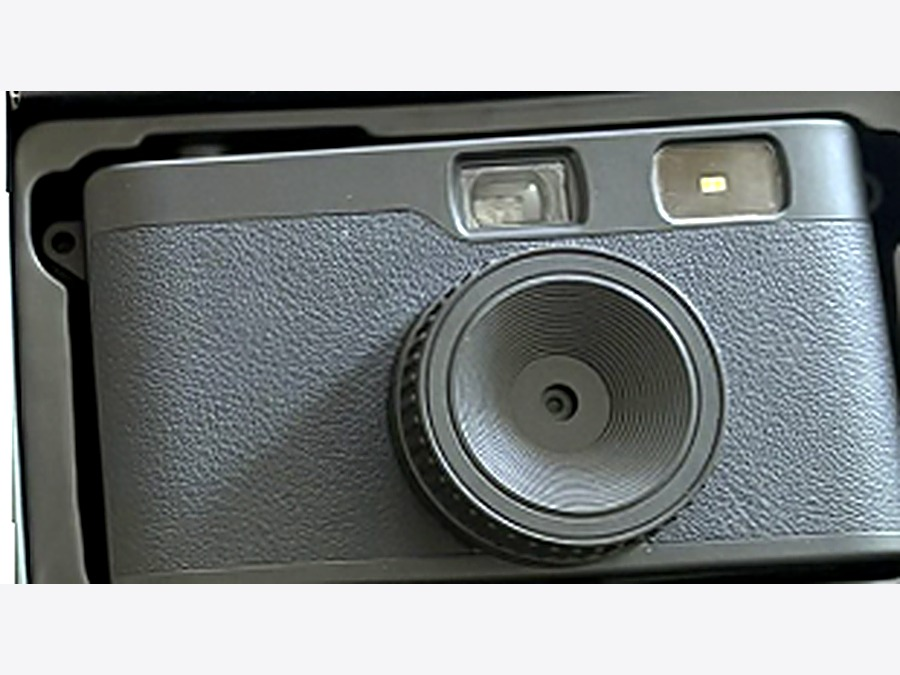
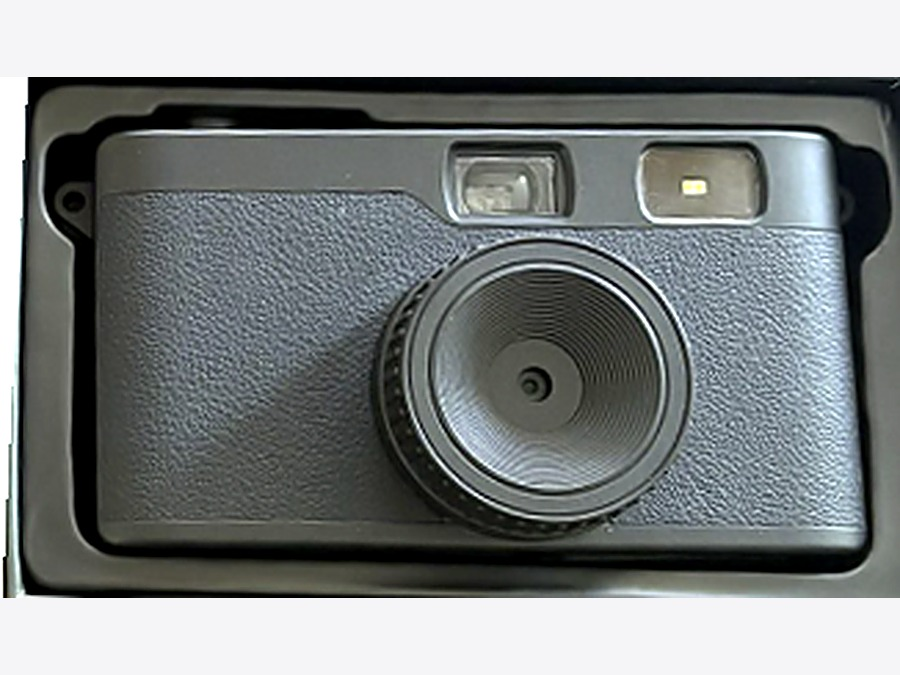
Zwart precies waterpas gezet, hero-foto vervangen door consistente productfoto, warmere restyle (Fraunces + Nunito Sans, crème palet, getinte accenten)

diff --git a/index.html b/index.html
@@ -16,29 +16,30 @@
   <meta property="og:site_name" content="Kiekcam"/>
   <link rel="preconnect" href="https://fonts.googleapis.com"/>
   <link rel="preconnect" href="https://fonts.gstatic.com" crossorigin/>
-  <link href="https://fonts.googleapis.com/css2?family=Inter:wght@400;500;600;700;800&display=swap" rel="stylesheet"/>
+  <link href="https://fonts.googleapis.com/css2?family=Fraunces:opsz,wght@9..144,500;9..144,600;9..144,700;9..144,800&family=Nunito+Sans:wght@400;500;600;700;800&display=swap" rel="stylesheet"/>
   <style>
     :root{
-      --bg:#ffffff;--bg-tint:#f5f5f7;--dark:#1d1d1f;--dark-2:#272729;
-      --ink:#1d1d1f;--ink-muted:#6e6e73;--ink-faint:#98989d;
-      --hairline:rgba(0,0,0,.08);--hairline-2:rgba(0,0,0,.12);
-      --accent:#E8541C;--accent-dk:#c1420f;--accent-tint:#fdece0;
+      --bg:#FFFCF6;--bg-tint:#F7EEDD;--dark:#2A1D12;--dark-2:#3A2A1A;
+      --ink:#2B2013;--ink-muted:#7C6E58;--ink-faint:#AC9C82;
+      --hairline:rgba(43,32,19,.12);--hairline-2:rgba(43,32,19,.18);
+      --accent:#E8541C;--accent-dk:#c1420f;--accent-tint:#FBE0CB;
+      --accent-2:#D69F2E;--accent-2-dk:#9C7317;--accent-2-tint:#F7E8C4;
       --wit:#F5F1E4;--zwart:#18140F;--oranje:#E8541C;--bruin:#6B4423;
       --r-pill:980px;--r-lg:20px;--r-md:14px;--r-sm:10px;
-      --shadow-sm:0 1px 2px rgba(0,0,0,.06);
-      --shadow-md:0 12px 28px rgba(0,0,0,.09);
-      --shadow-photo:0 20px 45px rgba(0,0,0,.14);
+      --shadow-sm:0 1px 2px rgba(43,32,19,.08);
+      --shadow-md:0 14px 32px rgba(43,32,19,.13);
+      --shadow-photo:0 24px 50px rgba(43,20,10,.20);
     }
     *,*::before,*::after{box-sizing:border-box;margin:0;padding:0}
     html{scroll-behavior:smooth}
-    body{font-family:"Inter",-apple-system,BlinkMacSystemFont,"Segoe UI",sans-serif;background:var(--bg);color:var(--ink);line-height:1.6;-webkit-font-smoothing:antialiased}
+    body{font-family:"Nunito Sans",-apple-system,BlinkMacSystemFont,"Segoe UI",sans-serif;background:radial-gradient(1100px 560px at 50% -8%,#FFF2DD 0%,var(--bg) 62%);color:var(--ink);line-height:1.6;-webkit-font-smoothing:antialiased}
     a{color:inherit}
     img{max-width:100%;display:block}
     .container{max-width:1160px;margin:0 auto;padding-left:32px;padding-right:32px}
 
     /* NAV */
     nav{position:sticky;top:0;left:0;right:0;height:64px;display:flex;align-items:center;justify-content:space-between;padding:0 32px;background:rgba(255,255,255,.86);backdrop-filter:saturate(180%) blur(20px);-webkit-backdrop-filter:saturate(180%) blur(20px);border-bottom:1px solid var(--hairline);z-index:100}
-    .logo{font-weight:700;font-size:1.28rem;letter-spacing:-.02em;text-decoration:none;color:var(--ink)}
+    .logo{font-family:"Fraunces",Georgia,serif;font-weight:600;font-size:1.34rem;letter-spacing:-.01em;text-decoration:none;color:var(--ink)}
     .logo span{color:var(--accent)}
     .nav-links{list-style:none;display:flex;gap:6px}
     .nav-links a{display:inline-block;font-size:.92rem;font-weight:500;text-decoration:none;color:var(--ink-muted);padding:8px 14px;border-radius:var(--r-pill);transition:background .15s,color .15s}
@@ -48,8 +49,8 @@
 
     /* HERO */
     .hero{max-width:1160px;margin:0 auto;padding:88px 32px 40px;display:grid;grid-template-columns:1fr 1fr;gap:56px;align-items:center}
-    .eyebrow{display:inline-block;font-size:.8rem;font-weight:600;letter-spacing:.06em;text-transform:uppercase;color:var(--accent);margin-bottom:18px}
-    .hero-title{font-weight:700;font-size:clamp(2.6rem,5vw,3.6rem);letter-spacing:-.03em;line-height:1.06;margin-bottom:20px;color:var(--ink)}
+    .eyebrow{display:inline-flex;align-items:center;font-size:.78rem;font-weight:700;letter-spacing:.05em;text-transform:uppercase;color:var(--accent-dk);background:var(--accent-tint);padding:7px 15px;border-radius:var(--r-pill);margin-bottom:20px}
+    .hero-title{font-family:"Fraunces",Georgia,serif;font-weight:600;font-size:clamp(2.8rem,5.4vw,4.1rem);letter-spacing:-.01em;line-height:1.05;margin-bottom:20px;color:var(--ink)}
     .hero-title em{font-style:normal;color:var(--accent)}
     .hero-sub{font-size:1.08rem;color:var(--ink-muted);max-width:440px;line-height:1.6;margin:0 0 30px;font-weight:400}
     .prijs-regel{display:flex;align-items:baseline;gap:10px;margin-bottom:32px;flex-wrap:wrap}
@@ -71,7 +72,7 @@
     /* SECTIE ALGEMEEN */
     .sectie{max-width:1160px;margin:0 auto;padding:96px 32px}
     .sectie-head{max-width:600px;margin:0 0 44px}
-    .sectie-titel{font-weight:700;font-size:clamp(1.7rem,3vw,2.2rem);letter-spacing:-.02em;margin-bottom:10px;color:var(--ink)}
+    .sectie-titel{font-family:"Fraunces",Georgia,serif;font-weight:600;font-size:clamp(1.8rem,3vw,2.3rem);letter-spacing:-.01em;margin-bottom:10px;color:var(--ink)}
     .sectie-sub{font-size:1.02rem;color:var(--ink-muted);font-weight:400}
     .sectie.tint{background:var(--bg-tint);max-width:100%;padding:96px 32px}
     .sectie.tint .sectie-inner{max-width:1160px;margin:0 auto}
@@ -81,12 +82,13 @@
     /* KLEUREN / PRODUCTEN */
     .kleuren-grid{display:grid;grid-template-columns:repeat(4,1fr);gap:20px}
     .kleur-card{background:var(--bg);border:1px solid var(--hairline);border-radius:var(--r-lg);overflow:hidden;transition:transform .2s,box-shadow .2s}
+    .kleur-card::before{content:"";display:block;height:5px;background:var(--card-accent,var(--accent))}
     .kleur-card:hover{transform:translateY(-3px);box-shadow:var(--shadow-md)}
     .kleur-img-wrap{position:relative;aspect-ratio:4/3;overflow:hidden;background:var(--bg-tint)}
     .kleur-img-wrap img{width:100%;height:100%;object-fit:cover;display:block}
     .kleur-swatch{position:absolute;top:12px;left:12px;width:20px;height:20px;border-radius:50%;border:1px solid rgba(0,0,0,.15);box-shadow:0 1px 3px rgba(0,0,0,.15)}
     .kleur-info{padding:18px 18px 20px}
-    .kleur-naam{font-weight:600;font-size:1.05rem;color:var(--ink);margin-bottom:4px}
+    .kleur-naam{font-family:"Fraunces",Georgia,serif;font-weight:600;font-size:1.12rem;color:var(--ink);margin-bottom:4px}
     .kleur-meta{font-size:.86rem;color:var(--ink-muted);margin-bottom:14px;font-weight:400;line-height:1.5}
     .kleur-prijs{font-weight:700;font-size:1.1rem;color:var(--ink);margin-bottom:14px}
     .btn-mini{display:inline-block;width:100%;text-align:center;background:var(--bg-tint);color:var(--ink);font-weight:600;font-size:.86rem;padding:10px 0;border-radius:var(--r-pill);text-decoration:none;transition:background .15s,color .15s}
@@ -95,8 +97,10 @@
     /* HOE HET WERKT */
     .stappen{display:grid;grid-template-columns:repeat(3,1fr);gap:20px}
     .stap{background:var(--bg);border:1px solid var(--hairline);border-radius:var(--r-lg);padding:30px}
-    .stap-nr{font-weight:700;font-size:1.6rem;color:var(--ink-faint);margin-bottom:14px}
-    .stap h3{font-size:1.12rem;font-weight:600;margin-bottom:8px;color:var(--ink)}
+    .stap-nr{display:inline-flex;align-items:center;justify-content:center;width:42px;height:42px;border-radius:50%;font-family:"Fraunces",Georgia,serif;font-weight:700;font-size:1.2rem;margin-bottom:16px;background:var(--accent-tint);color:var(--accent-dk)}
+    .stap:nth-child(2) .stap-nr{background:var(--accent-2-tint);color:var(--accent-2-dk)}
+    .stap:nth-child(3) .stap-nr{background:#EDE0CF;color:var(--bruin)}
+    .stap h3{font-family:"Fraunces",Georgia,serif;font-size:1.16rem;font-weight:600;margin-bottom:8px;color:var(--ink)}
     .stap p{font-size:.94rem;color:var(--ink-muted);line-height:1.6;font-weight:400}
 
     /* FILTERS */
@@ -106,18 +110,18 @@
     .filter-swatch.standaard{background:linear-gradient(135deg,#f3e6c8,#e8d3a0)}
     .filter-swatch.retro{background:linear-gradient(135deg,var(--accent),var(--accent-dk))}
     .filter-swatch.analoog{background:linear-gradient(135deg,#d8b98a,var(--bruin))}
-    .filter-swatch.zwartwit{background:linear-gradient(135deg,#e4e4e2,#3a3a3c)}
-    .filter-card h3{font-size:.96rem;font-weight:600;color:var(--ink)}
+    .filter-swatch.zwartwit{background:linear-gradient(135deg,#e9e2d5,#43392f)}
+    .filter-card h3{font-family:"Fraunces",Georgia,serif;font-size:1rem;font-weight:600;color:var(--ink)}
 
     /* OVER ONS */
     .overons-inner{max-width:680px}
-    .overons-inner h2{font-weight:700;font-size:clamp(1.7rem,3vw,2.2rem);letter-spacing:-.02em;margin-bottom:16px;color:#fff}
+    .overons-inner h2{font-family:"Fraunces",Georgia,serif;font-weight:600;font-size:clamp(1.8rem,3vw,2.3rem);letter-spacing:-.01em;margin-bottom:16px;color:#fff}
     .overons-inner h2 span{color:var(--accent)}
     .overons-text{font-size:1.04rem;color:rgba(255,255,255,.72);line-height:1.75;font-weight:400}
 
     /* NIEUWSBRIEF */
     .nieuwsbrief-inner{text-align:center}
-    .nieuwsbrief-inner h2{font-weight:700;font-size:clamp(1.5rem,3vw,1.9rem);margin-bottom:10px;color:var(--ink);letter-spacing:-.02em}
+    .nieuwsbrief-inner h2{font-family:"Fraunces",Georgia,serif;font-weight:600;font-size:clamp(1.6rem,3vw,2rem);margin-bottom:10px;color:var(--ink);letter-spacing:-.01em}
     .nieuwsbrief-inner p{font-size:.98rem;color:var(--ink-muted);margin-bottom:26px;font-weight:400}
     .nieuwsbrief-form{display:flex;justify-content:center;gap:10px;flex-wrap:wrap}
     .nieuwsbrief-form input[type=email]{padding:13px 20px;border-radius:var(--r-pill);border:1px solid var(--hairline-2);font-size:.94rem;min-width:280px;font-family:inherit;background:#fff}
@@ -198,7 +202,7 @@
     </div>
     <div class="hero-right">
       <div class="hero-photo-card">
-        <img src="kiekcam-hero.jpg" alt="Kiekcam retro digitale camera in gebruik" loading="lazy">
+        <img src="kiekcam-oranje.jpg" alt="Kiekcam retro digitale camera in oranje" loading="lazy">
       </div>
     </div>
   </section>
@@ -209,7 +213,7 @@
       <p class="sectie-sub">Eén camera, vier kleuren — allemaal voor dezelfde prijs.</p>
     </div>
     <div class="kleuren-grid">
-      <article class="kleur-card" itemscope itemtype="https://schema.org/Product">
+      <article class="kleur-card" style="--card-accent:#D8CDA8" itemscope itemtype="https://schema.org/Product">
         <div class="kleur-img-wrap">
           <span class="kleur-swatch" style="background:#F5F1E4" aria-hidden="true"></span>
           <img src="kiekcam-wit.jpg" alt="Kiekcam retro camera in wit" loading="lazy" itemprop="image">
@@ -223,7 +227,7 @@
           <a href="bestellen.html" class="btn-mini">Bestel Wit</a>
         </div>
       </article>
-      <article class="kleur-card" itemscope itemtype="https://schema.org/Product">
+      <article class="kleur-card" style="--card-accent:#18140F" itemscope itemtype="https://schema.org/Product">
         <div class="kleur-img-wrap">
           <span class="kleur-swatch" style="background:#18140F" aria-hidden="true"></span>
           <img src="kiekcam-zwart.jpg" alt="Kiekcam retro camera in zwart" loading="lazy" itemprop="image">
@@ -237,7 +241,7 @@
           <a href="bestellen.html" class="btn-mini">Bestel Zwart</a>
         </div>
       </article>
-      <article class="kleur-card" itemscope itemtype="https://schema.org/Product">
+      <article class="kleur-card" style="--card-accent:#E8541C" itemscope itemtype="https://schema.org/Product">
         <div class="kleur-img-wrap">
           <span class="kleur-swatch" style="background:#E8541C" aria-hidden="true"></span>
           <img src="kiekcam-oranje.jpg" alt="Kiekcam retro camera in oranje" loading="lazy" itemprop="image">
@@ -251,7 +255,7 @@
           <a href="bestellen.html" class="btn-mini">Bestel Oranje</a>
         </div>
       </article>
-      <article class="kleur-card" itemscope itemtype="https://schema.org/Product">
+      <article class="kleur-card" style="--card-accent:#6B4423" itemscope itemtype="https://schema.org/Product">
         <div class="kleur-img-wrap">
           <span class="kleur-swatch" style="background:#6B4423" aria-hidden="true"></span>
           <img src="kiekcam-bruin.jpg" alt="Kiekcam retro camera in bruin" loading="lazy" itemprop="image">

diff --git a/bestellen.html b/bestellen.html
@@ -7,26 +7,27 @@
   <meta name="description" content="Bestel de Kiekcam retro digitale camera in wit, zwart, oranje of bruin voor €44,99. Snel en eenvoudig bestellen."/>
   <link rel="preconnect" href="https://fonts.googleapis.com"/>
   <link rel="preconnect" href="https://fonts.gstatic.com" crossorigin/>
-  <link href="https://fonts.googleapis.com/css2?family=Inter:wght@400;500;600;700;800&display=swap" rel="stylesheet"/>
+  <link href="https://fonts.googleapis.com/css2?family=Fraunces:opsz,wght@9..144,500;9..144,600;9..144,700;9..144,800&family=Nunito+Sans:wght@400;500;600;700;800&display=swap" rel="stylesheet"/>
   <style>
     :root{
-      --bg:#ffffff;--bg-tint:#f5f5f7;--dark:#1d1d1f;
-      --ink:#1d1d1f;--ink-muted:#6e6e73;--ink-faint:#98989d;
-      --hairline:rgba(0,0,0,.08);--hairline-2:rgba(0,0,0,.12);
-      --accent:#E8541C;--accent-dk:#c1420f;--accent-tint:#fdece0;
+      --bg:#FFFCF6;--bg-tint:#F7EEDD;--dark:#2A1D12;
+      --ink:#2B2013;--ink-muted:#7C6E58;--ink-faint:#AC9C82;
+      --hairline:rgba(43,32,19,.12);--hairline-2:rgba(43,32,19,.18);
+      --accent:#E8541C;--accent-dk:#c1420f;--accent-tint:#FBE0CB;
+      --accent-2:#D69F2E;--accent-2-dk:#9C7317;--accent-2-tint:#F7E8C4;
       --wit:#F5F1E4;--zwart:#18140F;--oranje:#E8541C;--bruin:#6B4423;
       --r-pill:980px;--r-lg:20px;--r-md:14px;--r-sm:10px;
-      --shadow-sm:0 1px 2px rgba(0,0,0,.06);
-      --shadow-md:0 12px 28px rgba(0,0,0,.09);
+      --shadow-sm:0 1px 2px rgba(43,32,19,.08);
+      --shadow-md:0 14px 32px rgba(43,32,19,.13);
     }
     *,*::before,*::after{box-sizing:border-box;margin:0;padding:0}
-    body{font-family:"Inter",-apple-system,BlinkMacSystemFont,"Segoe UI",sans-serif;background:var(--bg);color:var(--ink);min-height:100vh;-webkit-font-smoothing:antialiased}
+    body{font-family:"Nunito Sans",-apple-system,BlinkMacSystemFont,"Segoe UI",sans-serif;background:radial-gradient(1100px 560px at 50% -8%,#FFF2DD 0%,var(--bg) 62%);color:var(--ink);min-height:100vh;-webkit-font-smoothing:antialiased}
     a{color:inherit}
     img{max-width:100%;display:block}
 
     /* NAV */
     nav{position:sticky;top:0;left:0;right:0;height:64px;display:flex;align-items:center;justify-content:space-between;padding:0 32px;background:rgba(255,255,255,.86);backdrop-filter:saturate(180%) blur(20px);-webkit-backdrop-filter:saturate(180%) blur(20px);border-bottom:1px solid var(--hairline);z-index:100}
-    .logo{font-weight:700;font-size:1.28rem;letter-spacing:-.02em;text-decoration:none;color:var(--ink)}
+    .logo{font-family:"Fraunces",Georgia,serif;font-weight:600;font-size:1.34rem;letter-spacing:-.01em;text-decoration:none;color:var(--ink)}
     .logo span{color:var(--accent)}
     .nav-links{list-style:none;display:flex;gap:6px}
     .nav-links a{display:inline-block;font-size:.92rem;font-weight:500;text-decoration:none;color:var(--ink-muted);padding:8px 14px;border-radius:var(--r-pill);transition:background .15s,color .15s}
@@ -49,8 +50,8 @@
 
     /* HERO */
     .hero{max-width:640px;margin:0 auto;padding:64px 32px 36px;text-align:center}
-    .eyebrow{display:inline-block;font-size:.8rem;font-weight:600;letter-spacing:.06em;text-transform:uppercase;color:var(--accent);margin-bottom:16px}
-    .hero h1{font-weight:700;font-size:clamp(2.2rem,6vw,2.9rem);letter-spacing:-.03em;line-height:1.08;margin-bottom:14px;color:var(--ink)}
+    .eyebrow{display:inline-flex;align-items:center;font-size:.78rem;font-weight:700;letter-spacing:.05em;text-transform:uppercase;color:var(--accent-dk);background:var(--accent-tint);padding:7px 15px;border-radius:var(--r-pill);margin-bottom:16px}
+    .hero h1{font-family:"Fraunces",Georgia,serif;font-weight:600;font-size:clamp(2.4rem,6.2vw,3.2rem);letter-spacing:-.01em;line-height:1.08;margin-bottom:14px;color:var(--ink)}
     .hero h1 em{font-style:normal;color:var(--accent)}
     .hero-sub{font-size:1rem;color:var(--ink-muted);max-width:420px;margin:0 auto 20px;line-height:1.6;font-weight:400}
     .price-tag{display:inline-block;color:var(--ink-muted);font-weight:500;font-size:.96rem}
@@ -70,7 +71,7 @@
     .shirt-card.active .q-select{background:var(--accent);color:#fff}
     .shirt-info{padding:16px 18px 20px}
     .shirt-label{font-size:.72rem;font-weight:600;letter-spacing:.06em;text-transform:uppercase;color:var(--accent);margin-bottom:4px}
-    .shirt-title{font-weight:700;font-size:1.18rem;color:var(--ink);margin-bottom:10px}
+    .shirt-title{font-family:"Fraunces",Georgia,serif;font-weight:600;font-size:1.24rem;color:var(--ink);margin-bottom:10px}
     .chips{display:flex;gap:6px;flex-wrap:wrap;margin-bottom:14px}
     .chip{font-size:.74rem;padding:4px 11px;border-radius:var(--r-pill);border:1px solid var(--hairline-2);color:var(--ink-muted);font-weight:500}
     .shirt-bottom{display:flex;align-items:center;justify-content:space-between}
@@ -83,7 +84,7 @@
 
     /* FORM */
     .form-section{max-width:540px;margin:0 auto;padding:0 24px 72px}
-    .form-heading{font-weight:700;font-size:1.35rem;letter-spacing:-.02em;color:var(--ink);margin-bottom:18px}
+    .form-heading{font-family:"Fraunces",Georgia,serif;font-weight:600;font-size:1.4rem;letter-spacing:-.01em;color:var(--ink);margin-bottom:18px}
     .form-heading em{color:var(--accent);font-style:normal}
     .bestel-card{background:var(--bg);border-radius:var(--r-lg);border:1px solid var(--hairline);padding:28px}
     .preview-strip{display:flex;align-items:center;gap:12px;padding:12px;border-radius:var(--r-md);background:var(--bg-tint);margin-bottom:20px}

diff --git a/over-ons.html b/over-ons.html
@@ -45,24 +45,24 @@
   </script>
   <link rel="preconnect" href="https://fonts.googleapis.com"/>
   <link rel="preconnect" href="https://fonts.gstatic.com" crossorigin/>
-  <link href="https://fonts.googleapis.com/css2?family=Inter:wght@400;500;600;700;800&display=swap" rel="stylesheet"/>
+  <link href="https://fonts.googleapis.com/css2?family=Fraunces:opsz,wght@9..144,500;9..144,600;9..144,700;9..144,800&family=Nunito+Sans:wght@400;500;600;700;800&display=swap" rel="stylesheet"/>
   <style>
     :root{
-      --bg:#ffffff;--bg-tint:#f5f5f7;--dark:#1d1d1f;
-      --ink:#1d1d1f;--ink-muted:#6e6e73;--ink-faint:#98989d;
-      --hairline:rgba(0,0,0,.08);--hairline-2:rgba(0,0,0,.12);
-      --accent:#E8541C;--accent-dk:#c1420f;--accent-tint:#fdece0;
+      --bg:#FFFCF6;--bg-tint:#F7EEDD;--dark:#2A1D12;
+      --ink:#2B2013;--ink-muted:#7C6E58;--ink-faint:#AC9C82;
+      --hairline:rgba(43,32,19,.12);--hairline-2:rgba(43,32,19,.18);
+      --accent:#E8541C;--accent-dk:#c1420f;--accent-tint:#FBE0CB;
       --r-pill:980px;--r-lg:20px;--r-md:14px;--r-sm:10px;
-      --shadow-md:0 12px 28px rgba(0,0,0,.09);
+      --shadow-md:0 14px 32px rgba(43,32,19,.13);
     }
     *,*::before,*::after{box-sizing:border-box;margin:0;padding:0}
     html{scroll-behavior:smooth}
-    body{font-family:"Inter",-apple-system,BlinkMacSystemFont,"Segoe UI",sans-serif;background:var(--bg);color:var(--ink);line-height:1.6;-webkit-font-smoothing:antialiased}
+    body{font-family:"Nunito Sans",-apple-system,BlinkMacSystemFont,"Segoe UI",sans-serif;background:radial-gradient(1100px 560px at 50% -8%,#FFF2DD 0%,var(--bg) 62%);color:var(--ink);line-height:1.6;-webkit-font-smoothing:antialiased}
     a{color:inherit}
 
     /* NAV */
     nav{position:sticky;top:0;left:0;right:0;z-index:100;display:flex;align-items:center;justify-content:space-between;padding:0 32px;height:64px;background:rgba(255,255,255,.86);backdrop-filter:saturate(180%) blur(20px);-webkit-backdrop-filter:saturate(180%) blur(20px);border-bottom:1px solid var(--hairline)}
-    .logo{font-weight:700;font-size:1.28rem;letter-spacing:-.02em;text-decoration:none;color:var(--ink)}
+    .logo{font-family:"Fraunces",Georgia,serif;font-weight:600;font-size:1.34rem;letter-spacing:-.01em;text-decoration:none;color:var(--ink)}
     .logo span{color:var(--accent)}
     .nav-links{list-style:none;display:flex;gap:6px}
     .nav-links a{display:inline-block;font-size:.92rem;font-weight:500;text-decoration:none;color:var(--ink-muted);padding:8px 14px;border-radius:var(--r-pill);transition:background .15s,color .15s}
@@ -80,12 +80,12 @@
     .breadcrumb a{color:var(--ink-muted);text-decoration:none}
     .breadcrumb a:hover{color:var(--ink)}
     .breadcrumb span{margin:0 6px}
-    .eyebrow{display:inline-block;font-size:.8rem;font-weight:600;letter-spacing:.06em;text-transform:uppercase;color:var(--accent);margin-bottom:18px}
-    h1{font-weight:700;font-size:clamp(2.4rem,5.5vw,3.4rem);letter-spacing:-.03em;margin-bottom:16px;line-height:1.08;color:var(--ink)}
+    .eyebrow{display:inline-flex;align-items:center;font-size:.78rem;font-weight:700;letter-spacing:.05em;text-transform:uppercase;color:var(--accent-dk);background:var(--accent-tint);padding:7px 15px;border-radius:var(--r-pill);margin-bottom:18px}
+    h1{font-family:"Fraunces",Georgia,serif;font-weight:600;font-size:clamp(2.6rem,5.6vw,3.6rem);letter-spacing:-.01em;margin-bottom:16px;line-height:1.08;color:var(--ink)}
     .subtitle{font-size:1.05rem;color:var(--ink-muted);margin-bottom:44px;max-width:620px;line-height:1.65;font-weight:400}
     .grid{display:grid;grid-template-columns:minmax(0,3fr) minmax(0,2fr);gap:20px;align-items:flex-start}
     .card{background:var(--bg);border-radius:var(--r-lg);padding:30px;border:1px solid var(--hairline)}
-    .card h2{font-weight:700;font-size:1.3rem;letter-spacing:-.02em;margin-bottom:14px;color:var(--ink)}
+    .card h2{font-family:"Fraunces",Georgia,serif;font-weight:600;font-size:1.36rem;letter-spacing:-.01em;margin-bottom:14px;color:var(--ink)}
     .card p{font-size:.98rem;color:var(--ink-muted);line-height:1.75;margin-bottom:14px;font-weight:400}
     .card p:last-of-type{margin-bottom:0}
     .list{list-style:none;margin-top:6px}
